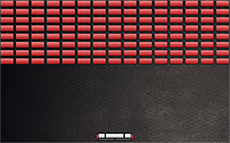
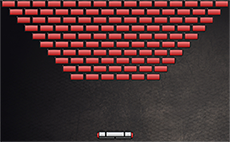
Piotrek 23.06 15:15

Changed region(s): [[0.0, 0.0, 1.0, 0.5915], [0.3957, 0.9296, 0.5783, 0.9859]]

diff --git a/ProjektZaliczeniowy/MainMenuState.cpp b/ProjektZaliczeniowy/MainMenuState.cpp
@@ -31,6 +31,10 @@ namespace BreakOut
 		this->_exitButton.setTexture(this->_data->assets.GetTexture("Exit Button"));
 		this->_title.setTexture(this->_data->assets.GetTexture("Title"));
 
+	
+
+
+
 		this->_playButton.setPosition((SCREEN_WIDTH / 2) - (this->_playButton.getGlobalBounds().width / 2), this->_playButton.getGlobalBounds().height * 3.0);
 		this->_optionsButton.setPosition((SCREEN_WIDTH / 2) - (this->_optionsButton.getGlobalBounds().width / 2), (this->_optionsButton.getGlobalBounds().height * 4.5));
 		this->_exitButton.setPosition((SCREEN_WIDTH / 2) - (this->_exitButton.getGlobalBounds().width / 2), (this->_exitButton.getGlobalBounds().height * 6.0));

diff --git a/ProjektZaliczeniowy/AssetManager.cpp b/ProjektZaliczeniowy/AssetManager.cpp
@@ -9,7 +9,7 @@ namespace BreakOut
 	void AssetManager::LoadTexture(string name, string fileName)
 	{
 		Texture texture;
-		
+
 		if (texture.loadFromFile(fileName))
 		{
 			this->_textures[name] = texture;
@@ -17,7 +17,7 @@ namespace BreakOut
 	}
 	Texture& AssetManager::GetTexture(string name)
 	{
-		return this->_textures.at(name);
+		return this->_textures[name];
 	}
 
 	void AssetManager::LoadFont(string name, string fileName)
@@ -28,10 +28,6 @@ namespace BreakOut
 		{
 			this->_fonts[name] = font;
 		}
-	}
-	Font& AssetManager::GetFont(string name)
-	{
-		return this->_fonts.at(name);
 	}
 }
 

diff --git a/ProjektZaliczeniowy/Levels.cpp b/ProjektZaliczeniowy/Levels.cpp
@@ -39,22 +39,7 @@ namespace BreakOut
 			}
 		}
 		level.push_back(level3);
-
-		int k{};
 		
-			/*for (int j = 1; j < 12; j++)
-			{
-
-
-				for (int i = AMOUNT_OF_BRICK_IN_LINE - (5 - j); i <= AMOUNT_OF_BRICK_IN_LINE; i++)
-				{
-					brick = { (float)((AMOUNT_OF_BRICK_IN_LINE - (5 - j)) / 2.0) + (float)k - (float)0.5,(float)(j) };
-					level4.push_back(brick);
-					k++;
-				}
-				k = 0;
-
-			}*/
 			for (int i = 0; i < 2*AMOUNT_OF_BRICK_IN_LINE-2; i+=2) {
 				level4.push_back({(float)(i*0.5+0.5), 0});
 

diff --git a/ProjektZaliczeniowy/Definitions.h b/ProjektZaliczeniowy/Definitions.h
@@ -43,7 +43,7 @@
 
 
 #define SPEED_PADDLE 400.0f
-#define SPEED_BALL 300.0f
+#define SPEED_BALL 500.0f
 #define SCREEN_WIDTH 1000
 #define SCREEN_HEIGHT 620
 #define SPLASH_STATE_SHOW_TIME 1.5

diff --git a/ProjektZaliczeniowy/GameState.cpp b/ProjektZaliczeniowy/GameState.cpp
@@ -100,12 +100,6 @@ namespace BreakOut
 
 
 		}
-		
-		
-
-
-
-
 
 
 
